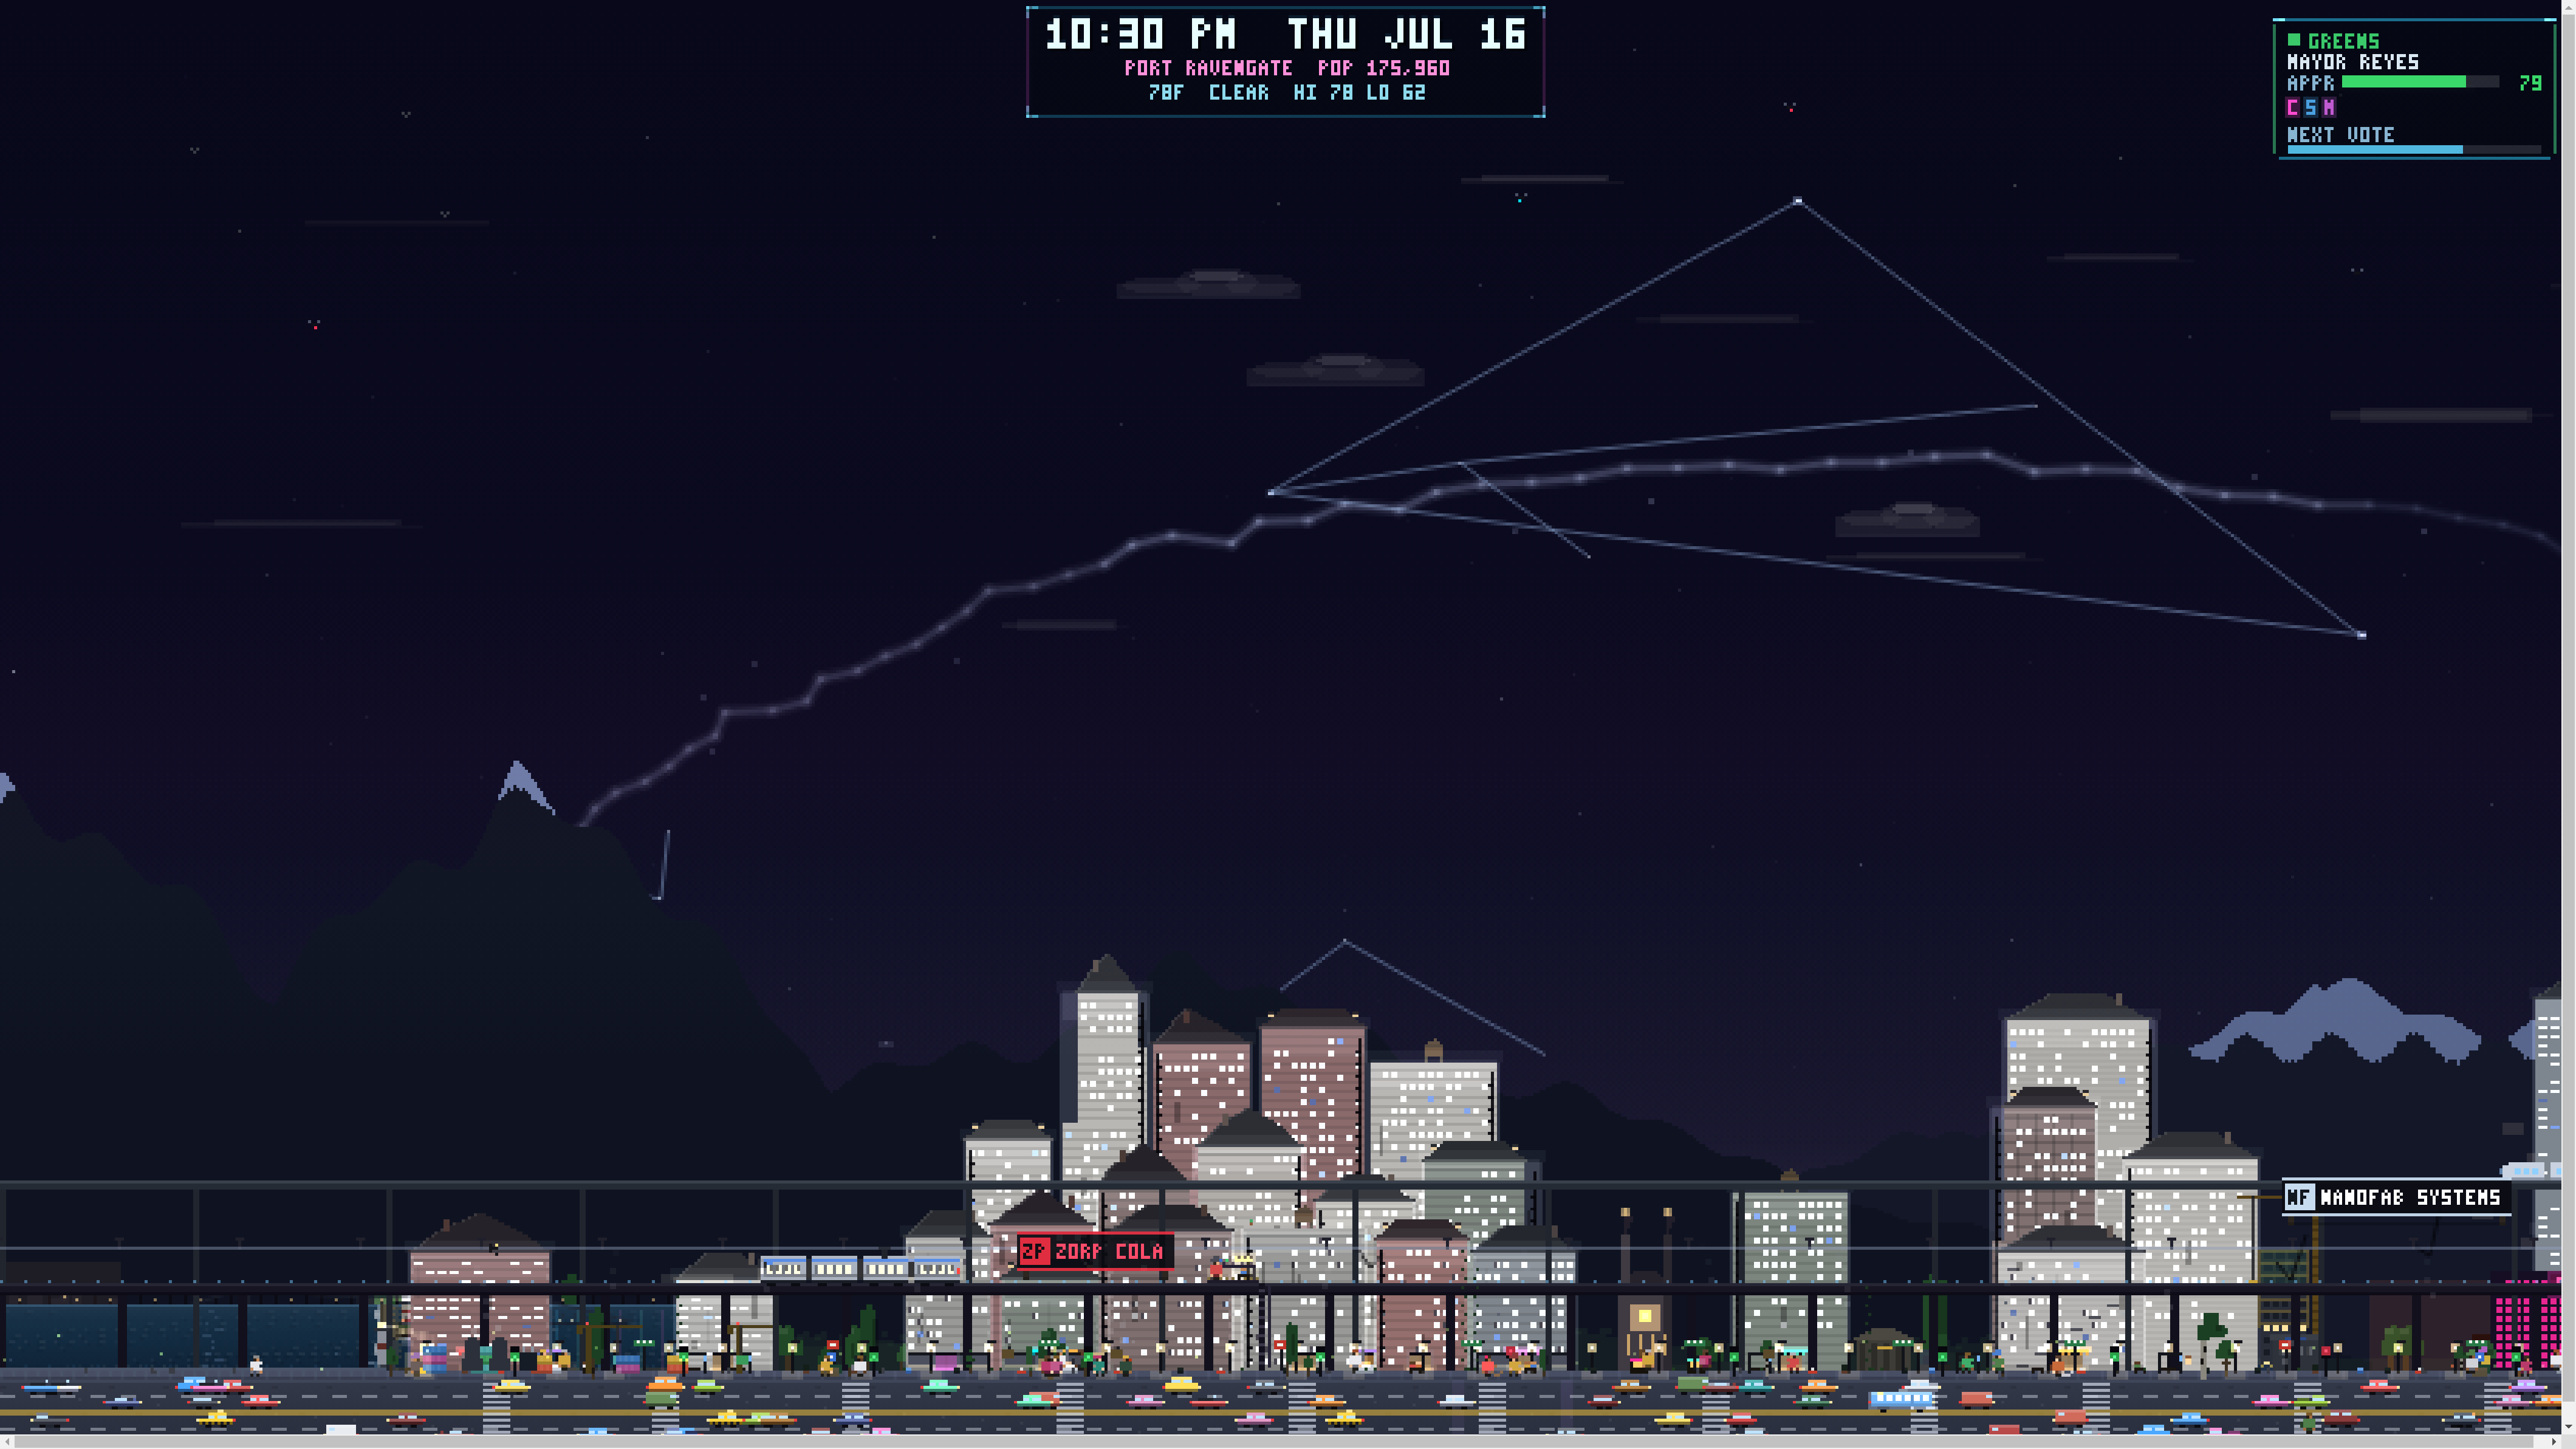
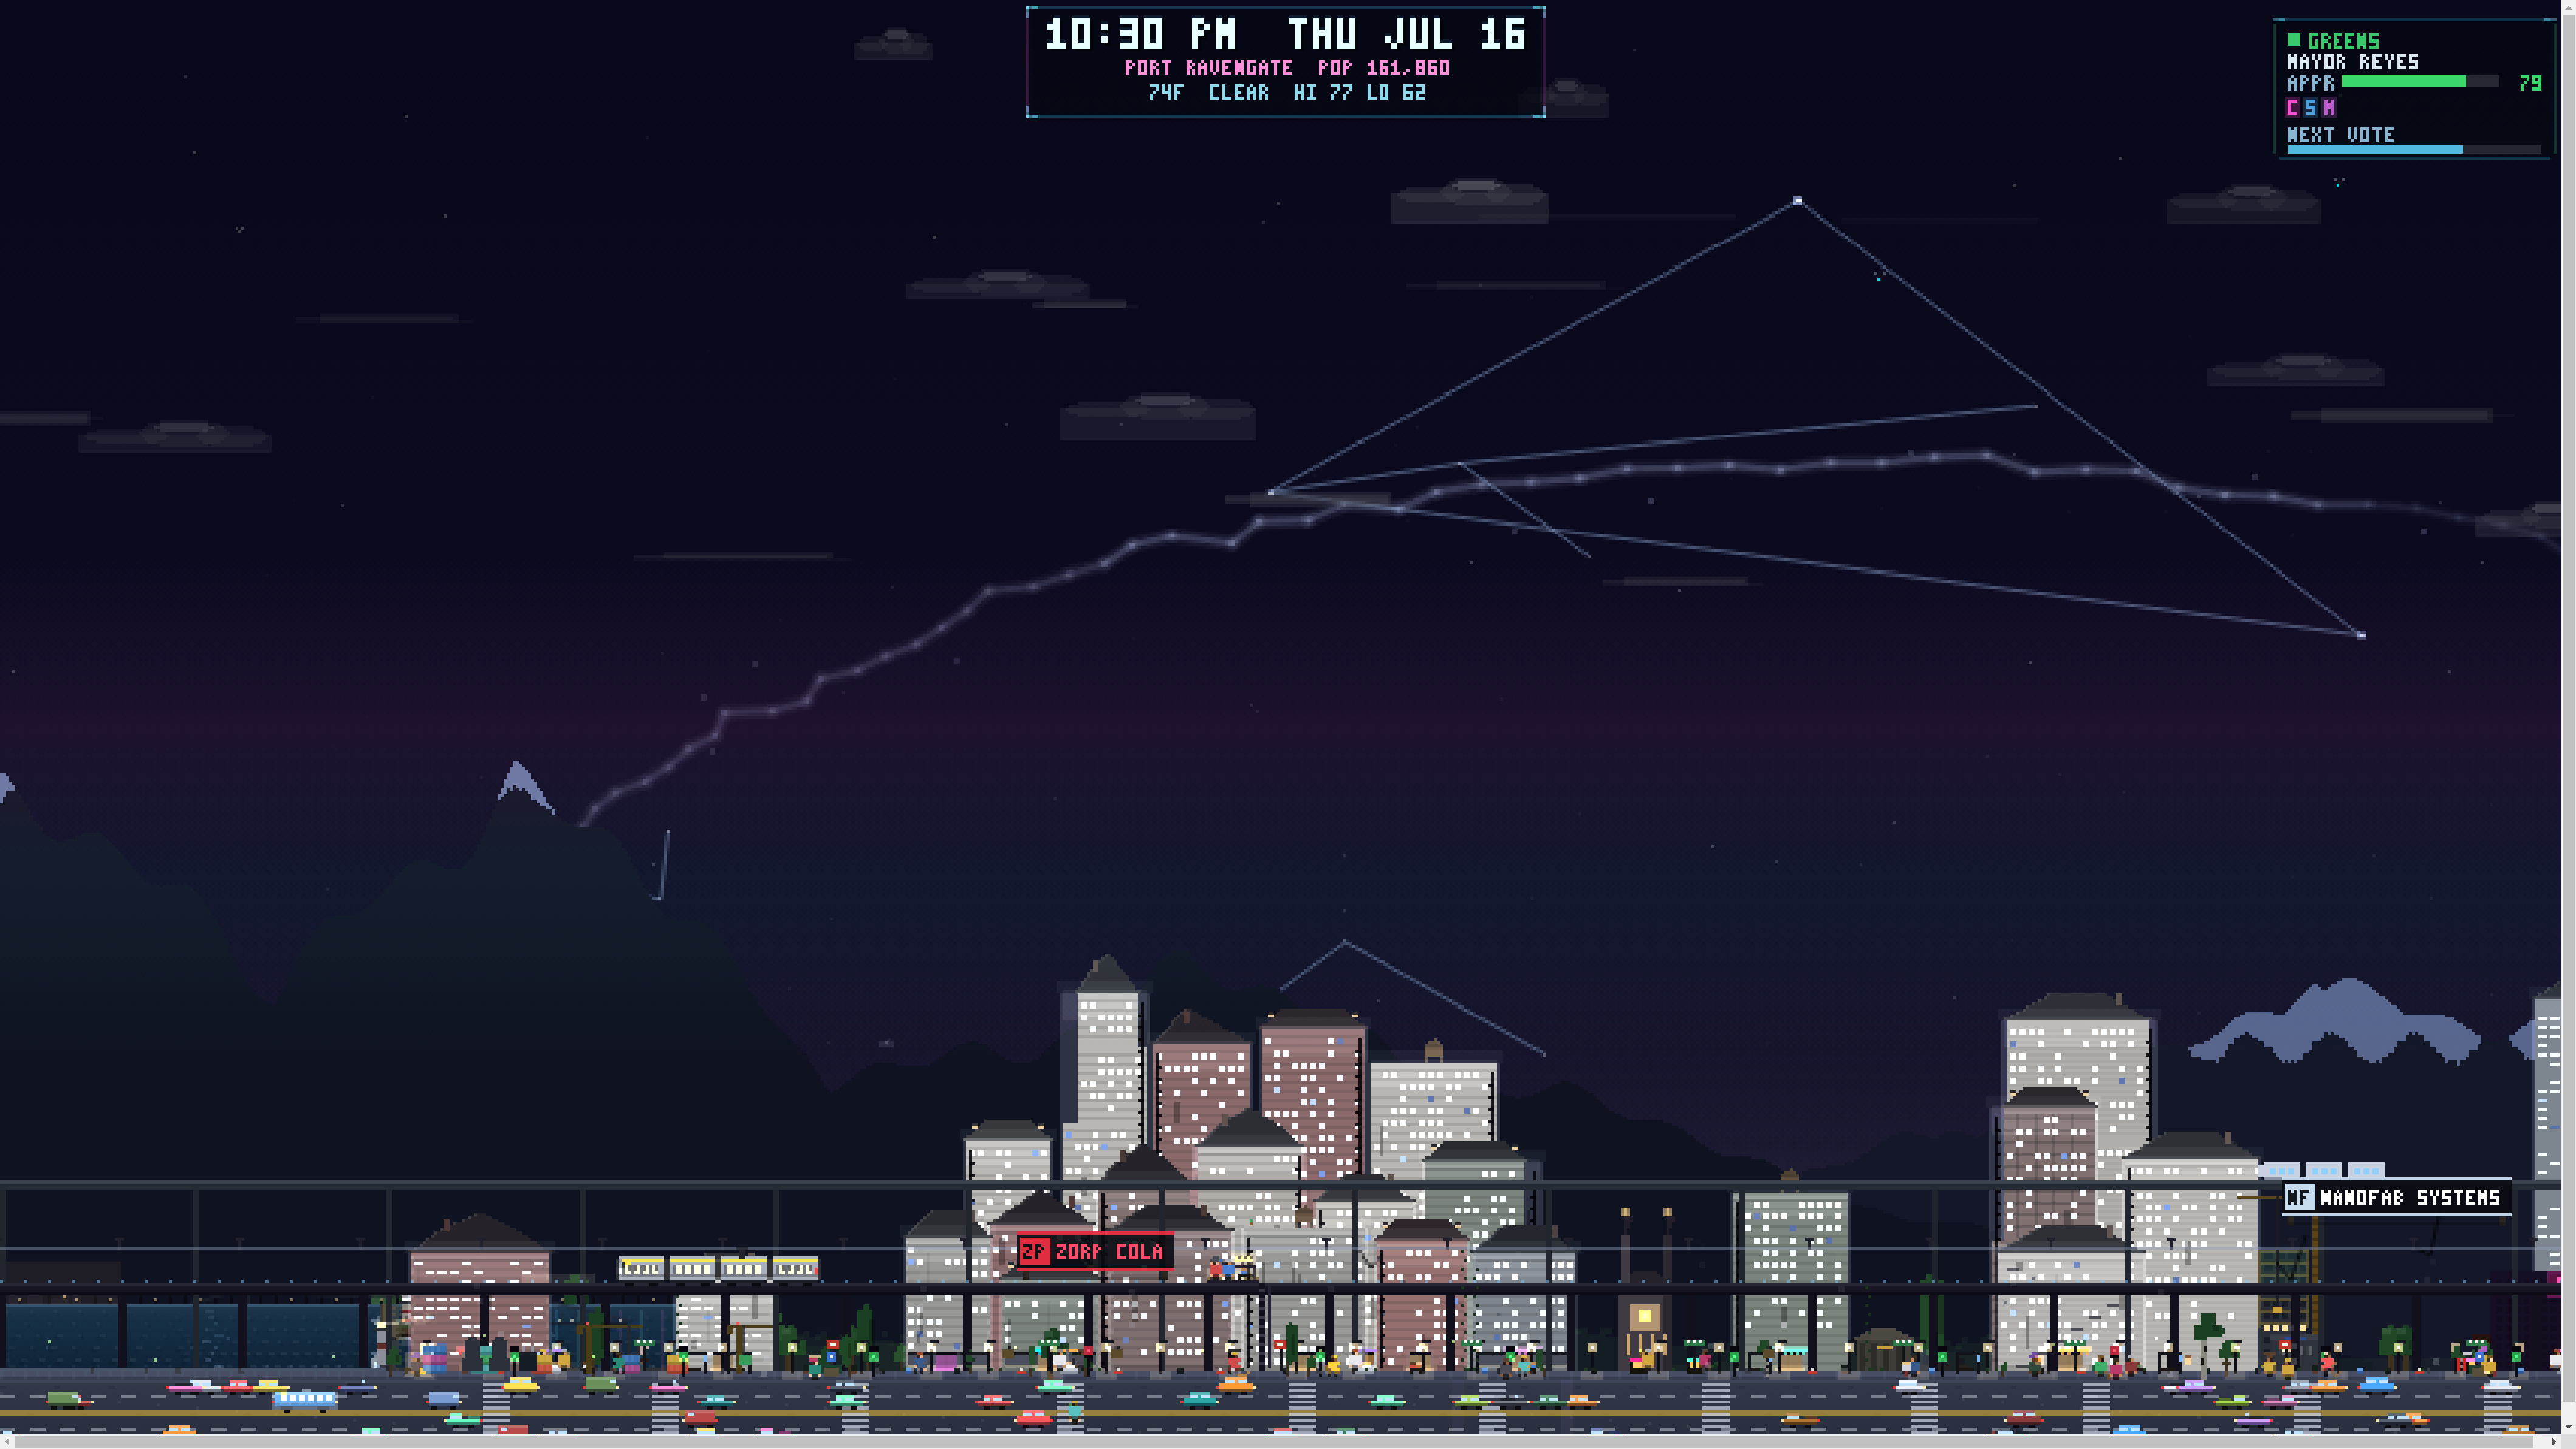
Buildings B3: functional building types with pixel-scale cues
Every building now has a b.use (useFor: district+height+bseed hash, no r(), layout
byte-stable). Most stay generic office/apartment; a deterministic minority render a
recognizable colour/light cue via drawUse — placed MID-FACADE or as a lit blade so it
survives real pixel scale and the el-rail/crowd occlusion at street level:

- hospital: white panel + red cross (glows at night)  - residential district
- theater: bulb-chase marquee + red corner blade      - entertainment/downtown
- hotel: lit gold vertical blade                       - downtown/entertainment
- bank: pale stone pediment band + gold seal           - downtown/oldtown
- cafe: warm scalloped awning + glow                   - oldtown/residential/neon
- pharmacy: glowing green cross                        - oldtown
- factory/warehouse assigned in industrial (cue-less for now)

Added FORCEUSE hook (?use=) + ?probe=use (near-layer type census). Verified hospital/
theater/cafe/hotel at REAL scale (6x, the wallpaper's actual zoom) day+night at a
location the probe confirmed dense+born. qml sweep (34) SWEEP_OK, perf 8.7ms. Synced x4.

Claude-Session: https://claude.ai/code/session_01Fcpq7p4KAqg44eJBRLN5J2

diff --git a/desktop/renderer/city.js b/desktop/renderer/city.js
@@ -151,6 +151,7 @@ var CLOCK = null;   // test-harness override: ms timestamp for time-of-day (null
 var NOWOVR = null;  // test-harness override: ms value returned as Date.now() inside draw() (null = real)
 var FORCELAYOUT = null;   // test hook: pin every building's window layout (grid/ribbon/band/punch/corp) — verify per-layout render
 var FORCECROWN = null;    // test hook: pin every building's crown/roof (gable/hip/saltbox/mansard/deco/…) — verify per-roof render
+var FORCEUSE = null;      // test hook: pin every building's functional type (hospital/theater/hotel/bank/cafe/pharmacy) — verify drawUse
 function nowDate(){ return CLOCK ? new Date(CLOCK) : new Date(); }
 
 function rng(seed){ var a=seed>>>0; return function(){ a|=0; a=a+0x6D2B79F5|0; var t=Math.imul(a^a>>>15,1|a); t=t+Math.imul(t^t>>>7,61|t)^t; return ((t^t>>>14)>>>0)/4294967296; }; }
@@ -236,6 +237,20 @@ function dayMatFor(dname,seed){ var t=DAYMAT[dname]; if(!t) return null; return 
 var ROOFMAT = [ [46,50,60],[58,64,76],[150,72,56],[168,92,64],[92,122,104],[74,104,90],
                 [98,76,56],[120,90,64],[34,36,44],[120,124,132],[74,60,68],[52,58,66] ];
 function roofMatFor(seed){ return ROOFMAT[(seed>>>9)%ROOFMAT.length]; }
+
+// FUNCTIONAL BUILDING TYPE — most buildings are generic office/apartment; a MINORITY are recognizable civic/
+// commercial types rendered with a colour/light cue that survives pixel scale (a mid-facade emblem or a lit
+// blade sign, NOT fine ground-floor linework the rail/crowds occlude). Derived from district+height+a bseed
+// hash — no r(), so the skyline layout is byte-stable. See drawUse().
+function useFor(dname,bh,bseed){
+  var hh=(bseed>>>17)&255;
+  if(dname==="industrial") return hh<140?"factory":"warehouse";
+  if(dname==="downtown")   return hh<11?"hotel":(hh<19?"bank":(hh<26&&bh>=54*KSP?"theater":"office"));
+  if(dname==="neon")       return hh<40?"theater":(hh<64?"hotel":(hh<96?"cafe":"office"));   // entertainment strip
+  if(dname==="residential")return hh<9?"hospital":(hh<20?"cafe":"apartment");
+  if(dname==="oldtown")    return hh<11?"bank":(hh<26?"cafe":(hh<40?"pharmacy":"apartment"));
+  return "office";
+}
 
 var SKY = { night:[[8,8,26],[16,14,40]], dawn:[[70,40,90],[255,140,90]],
             day:[[92,160,235],[170,215,250]], dusk:[[40,30,80],[255,110,70]] };
@@ -2091,6 +2106,7 @@ function makeLayer(seed,y0,baseHMin,baseHMax,layerK){
             glass:((winLayout==="corp"||winLayout==="ribbon")&&!(d.brick||neClap||nePitch)),   // reflective glass tower
             hero:hero,   // signature landmark tower (ornate crown + premium beacon/trim)
             roofMat:roofMatFor(bseed),   // this building's roof colour (slate/copper/red/cedar/tin…) — no two the same
+            use:(typeof FORCEUSE!=='undefined'&&FORCEUSE)?FORCEUSE:useFor(d.name,bh,bseed),   // functional type (hospital/theater/hotel/bank/cafe/…) → drawUse cue
             dayMat:(neColonial?null:dayMatFor(d.name,bseed)),   // DAYTIME material colour (colonial town keeps NE_WALLS; modern core gets it)
             nePitch:nePitch, clap:neClap,
             win:[], st:[], gl:[], roof:[],
@@ -2955,6 +2971,42 @@ function drawBanner(g,msg,now,night,pink){
   }
 }
 
+// FUNCTIONAL-TYPE CUE — a colour/light mark that reads at real pixel scale, placed MID-FACADE (the ground
+// floor is occluded by the el-rail + crowds). Hospital = lit cross; theater = bulb marquee band + red blade;
+// hotel = lit vertical blade; bank = pale pediment band + gold seal; cafe = warm double-awning; pharmacy =
+// green cross. Night versions glow; day versions are painted colour. ~4-8 fillRects each, near layer only.
+function drawUse(g,b,bx,top,L,now,night){
+  var u=b.use; if(!u||u==="office"||u==="apartment"||u==="warehouse"||u==="factory") return;
+  var w=b.w, mid=bx+(w>>1), fy=top+Math.min(9,Math.max(5,b.h>>2));      // upper-facade anchor (above the rail line)
+  if(u==="hospital"){                                                    // white/red cross on its own pale panel
+    g.fillStyle=L>0.5?"#e8ecf0":"#b8c0c8"; g.fillRect(mid-2,fy-2,5,5);
+    g.fillStyle=L>0.5?"#c03038":"#ff5a60"; g.fillRect(mid-1,fy,3,1); g.fillRect(mid,fy-1,1,3);
+    if(L<0.55){ g.globalCompositeOperation="lighter"; g.fillStyle="rgba(255,90,96,0.5)"; g.fillRect(mid-2,fy-2,5,5); g.globalCompositeOperation="source-over"; }
+  } else if(u==="theater"){                                              // bulb-chase marquee band + red blade sign
+    var my=HORIZON-8, mw=Math.min(w-2,14), mX=bx+((w-mw)>>1);
+    g.fillStyle=L>0.5?"#3a3240":"#181020"; g.fillRect(mX,my,mw,2);                       // marquee box
+    for(var bl2=0;bl2<mw;bl2+=2){ var on2=((Math.floor(now/240))+bl2)%4!==0;             // chasing bulbs
+      g.fillStyle=on2?(L<0.6?"#ffe08a":"#c8a850"):"#6a5a30"; g.fillRect(mX+bl2,my,1,1); }
+    g.fillStyle=L<0.6?"#ff4048":"#a03038"; g.fillRect(bx+w-3,top+4,2,Math.min(10,b.h>>2));   // vertical blade
+    if(L<0.55){ g.globalCompositeOperation="lighter"; g.fillStyle="rgba(255,80,90,0.35)"; g.fillRect(bx+w-4,top+3,4,Math.min(12,(b.h>>2)+2)); g.globalCompositeOperation="source-over"; }
+  } else if(u==="hotel"){                                                // lit vertical HOTEL blade on the corner
+    var hbh=Math.min(12,Math.max(6,b.h>>2));
+    g.fillStyle=L<0.6?"#ffd27a":"#8a7440"; g.fillRect(bx+1,top+4,2,hbh);
+    if(L<0.55){ g.globalCompositeOperation="lighter"; g.fillStyle="rgba(255,210,122,0.35)"; g.fillRect(bx,top+3,4,hbh+2); g.globalCompositeOperation="source-over"; }
+  } else if(u==="bank"){                                                 // pale stone pediment band + gold seal
+    g.fillStyle=L>0.5?"#ded8c8":"#5a564a"; g.fillRect(bx+1,fy-1,w-2,2);
+    g.fillStyle=L>0.5?"#c8a850":"#8a7440"; g.fillRect(mid,fy-2,1,1);
+  } else if(u==="cafe"){                                                 // warm scalloped double-awning + glow
+    var aw2=Math.min(w-2,10), aX2=bx+((w-aw2)>>1), ay=HORIZON-7;
+    g.fillStyle=L>0.5?"#c05a3a":"#7a3828"; g.fillRect(aX2,ay,aw2,1);
+    for(var av2=0;av2<aw2;av2+=2) g.fillRect(aX2+av2,ay+1,1,1);                          // scallops
+    if(L<0.55){ g.globalCompositeOperation="lighter"; g.fillStyle="rgba(255,190,120,0.30)"; g.fillRect(aX2-1,ay,aw2+2,4); g.globalCompositeOperation="source-over"; }
+  } else if(u==="pharmacy"){                                             // green cross (universal)
+    g.fillStyle=L<0.6?"#3ae06a":"#2a8848"; g.fillRect(mid-1,fy,3,1); g.fillRect(mid,fy-1,1,3);
+    if(L<0.55){ g.globalCompositeOperation="lighter"; g.fillStyle="rgba(60,224,110,0.4)"; g.fillRect(mid-2,fy-2,5,5); g.globalCompositeOperation="source-over"; }
+  }
+}
+
 // ---- building crowns (a distinct top for every building) ----
 // bx = top-segment screen x, top = its roof y, bw = top-segment width.
 function drawCrown(g,crown,bx,top,bw,col,accent,L,now,night,roofMat){
@@ -3691,6 +3743,7 @@ function drawLayer(g,layer,L,now,fx,hol,haze){
       // a holiday prop hung over the doorway (the building "celebrates" the day)
       if(doProps && (((b.x|0)%3)===0)) drawProp(g,hol.decor.prop, eX+(edw>>1), HORIZON, L, now, night);
     }
+    if(layer===near && b.type!=="park" && b.w>=8) drawUse(g,b,bx,top,L,now,night);   // functional-type cue (hospital cross / theater marquee / hotel blade / …)
     // holiday garland lights strung along the top-segment roofline (every holiday)
     if(decor){ var gc=hol.decor.garland;
       for(var i2=1;i2<tW-1;i2+=2){ var cc=gc[(((i2/2)|0)+bi)%gc.length];

diff --git a/org.citylive.wallpaper/contents/js/city.js b/org.citylive.wallpaper/contents/js/city.js
@@ -151,6 +151,7 @@ var CLOCK = null;   // test-harness override: ms timestamp for time-of-day (null
 var NOWOVR = null;  // test-harness override: ms value returned as Date.now() inside draw() (null = real)
 var FORCELAYOUT = null;   // test hook: pin every building's window layout (grid/ribbon/band/punch/corp) — verify per-layout render
 var FORCECROWN = null;    // test hook: pin every building's crown/roof (gable/hip/saltbox/mansard/deco/…) — verify per-roof render
+var FORCEUSE = null;      // test hook: pin every building's functional type (hospital/theater/hotel/bank/cafe/pharmacy) — verify drawUse
 function nowDate(){ return CLOCK ? new Date(CLOCK) : new Date(); }
 
 function rng(seed){ var a=seed>>>0; return function(){ a|=0; a=a+0x6D2B79F5|0; var t=Math.imul(a^a>>>15,1|a); t=t+Math.imul(t^t>>>7,61|t)^t; return ((t^t>>>14)>>>0)/4294967296; }; }
@@ -236,6 +237,20 @@ function dayMatFor(dname,seed){ var t=DAYMAT[dname]; if(!t) return null; return 
 var ROOFMAT = [ [46,50,60],[58,64,76],[150,72,56],[168,92,64],[92,122,104],[74,104,90],
                 [98,76,56],[120,90,64],[34,36,44],[120,124,132],[74,60,68],[52,58,66] ];
 function roofMatFor(seed){ return ROOFMAT[(seed>>>9)%ROOFMAT.length]; }
+
+// FUNCTIONAL BUILDING TYPE — most buildings are generic office/apartment; a MINORITY are recognizable civic/
+// commercial types rendered with a colour/light cue that survives pixel scale (a mid-facade emblem or a lit
+// blade sign, NOT fine ground-floor linework the rail/crowds occlude). Derived from district+height+a bseed
+// hash — no r(), so the skyline layout is byte-stable. See drawUse().
+function useFor(dname,bh,bseed){
+  var hh=(bseed>>>17)&255;
+  if(dname==="industrial") return hh<140?"factory":"warehouse";
+  if(dname==="downtown")   return hh<11?"hotel":(hh<19?"bank":(hh<26&&bh>=54*KSP?"theater":"office"));
+  if(dname==="neon")       return hh<40?"theater":(hh<64?"hotel":(hh<96?"cafe":"office"));   // entertainment strip
+  if(dname==="residential")return hh<9?"hospital":(hh<20?"cafe":"apartment");
+  if(dname==="oldtown")    return hh<11?"bank":(hh<26?"cafe":(hh<40?"pharmacy":"apartment"));
+  return "office";
+}
 
 var SKY = { night:[[8,8,26],[16,14,40]], dawn:[[70,40,90],[255,140,90]],
             day:[[92,160,235],[170,215,250]], dusk:[[40,30,80],[255,110,70]] };
@@ -2091,6 +2106,7 @@ function makeLayer(seed,y0,baseHMin,baseHMax,layerK){
             glass:((winLayout==="corp"||winLayout==="ribbon")&&!(d.brick||neClap||nePitch)),   // reflective glass tower
             hero:hero,   // signature landmark tower (ornate crown + premium beacon/trim)
             roofMat:roofMatFor(bseed),   // this building's roof colour (slate/copper/red/cedar/tin…) — no two the same
+            use:(typeof FORCEUSE!=='undefined'&&FORCEUSE)?FORCEUSE:useFor(d.name,bh,bseed),   // functional type (hospital/theater/hotel/bank/cafe/…) → drawUse cue
             dayMat:(neColonial?null:dayMatFor(d.name,bseed)),   // DAYTIME material colour (colonial town keeps NE_WALLS; modern core gets it)
             nePitch:nePitch, clap:neClap,
             win:[], st:[], gl:[], roof:[],
@@ -2955,6 +2971,42 @@ function drawBanner(g,msg,now,night,pink){
   }
 }
 
+// FUNCTIONAL-TYPE CUE — a colour/light mark that reads at real pixel scale, placed MID-FACADE (the ground
+// floor is occluded by the el-rail + crowds). Hospital = lit cross; theater = bulb marquee band + red blade;
+// hotel = lit vertical blade; bank = pale pediment band + gold seal; cafe = warm double-awning; pharmacy =
+// green cross. Night versions glow; day versions are painted colour. ~4-8 fillRects each, near layer only.
+function drawUse(g,b,bx,top,L,now,night){
+  var u=b.use; if(!u||u==="office"||u==="apartment"||u==="warehouse"||u==="factory") return;
+  var w=b.w, mid=bx+(w>>1), fy=top+Math.min(9,Math.max(5,b.h>>2));      // upper-facade anchor (above the rail line)
+  if(u==="hospital"){                                                    // white/red cross on its own pale panel
+    g.fillStyle=L>0.5?"#e8ecf0":"#b8c0c8"; g.fillRect(mid-2,fy-2,5,5);
+    g.fillStyle=L>0.5?"#c03038":"#ff5a60"; g.fillRect(mid-1,fy,3,1); g.fillRect(mid,fy-1,1,3);
+    if(L<0.55){ g.globalCompositeOperation="lighter"; g.fillStyle="rgba(255,90,96,0.5)"; g.fillRect(mid-2,fy-2,5,5); g.globalCompositeOperation="source-over"; }
+  } else if(u==="theater"){                                              // bulb-chase marquee band + red blade sign
+    var my=HORIZON-8, mw=Math.min(w-2,14), mX=bx+((w-mw)>>1);
+    g.fillStyle=L>0.5?"#3a3240":"#181020"; g.fillRect(mX,my,mw,2);                       // marquee box
+    for(var bl2=0;bl2<mw;bl2+=2){ var on2=((Math.floor(now/240))+bl2)%4!==0;             // chasing bulbs
+      g.fillStyle=on2?(L<0.6?"#ffe08a":"#c8a850"):"#6a5a30"; g.fillRect(mX+bl2,my,1,1); }
+    g.fillStyle=L<0.6?"#ff4048":"#a03038"; g.fillRect(bx+w-3,top+4,2,Math.min(10,b.h>>2));   // vertical blade
+    if(L<0.55){ g.globalCompositeOperation="lighter"; g.fillStyle="rgba(255,80,90,0.35)"; g.fillRect(bx+w-4,top+3,4,Math.min(12,(b.h>>2)+2)); g.globalCompositeOperation="source-over"; }
+  } else if(u==="hotel"){                                                // lit vertical HOTEL blade on the corner
+    var hbh=Math.min(12,Math.max(6,b.h>>2));
+    g.fillStyle=L<0.6?"#ffd27a":"#8a7440"; g.fillRect(bx+1,top+4,2,hbh);
+    if(L<0.55){ g.globalCompositeOperation="lighter"; g.fillStyle="rgba(255,210,122,0.35)"; g.fillRect(bx,top+3,4,hbh+2); g.globalCompositeOperation="source-over"; }
+  } else if(u==="bank"){                                                 // pale stone pediment band + gold seal
+    g.fillStyle=L>0.5?"#ded8c8":"#5a564a"; g.fillRect(bx+1,fy-1,w-2,2);
+    g.fillStyle=L>0.5?"#c8a850":"#8a7440"; g.fillRect(mid,fy-2,1,1);
+  } else if(u==="cafe"){                                                 // warm scalloped double-awning + glow
+    var aw2=Math.min(w-2,10), aX2=bx+((w-aw2)>>1), ay=HORIZON-7;
+    g.fillStyle=L>0.5?"#c05a3a":"#7a3828"; g.fillRect(aX2,ay,aw2,1);
+    for(var av2=0;av2<aw2;av2+=2) g.fillRect(aX2+av2,ay+1,1,1);                          // scallops
+    if(L<0.55){ g.globalCompositeOperation="lighter"; g.fillStyle="rgba(255,190,120,0.30)"; g.fillRect(aX2-1,ay,aw2+2,4); g.globalCompositeOperation="source-over"; }
+  } else if(u==="pharmacy"){                                             // green cross (universal)
+    g.fillStyle=L<0.6?"#3ae06a":"#2a8848"; g.fillRect(mid-1,fy,3,1); g.fillRect(mid,fy-1,1,3);
+    if(L<0.55){ g.globalCompositeOperation="lighter"; g.fillStyle="rgba(60,224,110,0.4)"; g.fillRect(mid-2,fy-2,5,5); g.globalCompositeOperation="source-over"; }
+  }
+}
+
 // ---- building crowns (a distinct top for every building) ----
 // bx = top-segment screen x, top = its roof y, bw = top-segment width.
 function drawCrown(g,crown,bx,top,bw,col,accent,L,now,night,roofMat){
@@ -3691,6 +3743,7 @@ function drawLayer(g,layer,L,now,fx,hol,haze){
       // a holiday prop hung over the doorway (the building "celebrates" the day)
       if(doProps && (((b.x|0)%3)===0)) drawProp(g,hol.decor.prop, eX+(edw>>1), HORIZON, L, now, night);
     }
+    if(layer===near && b.type!=="park" && b.w>=8) drawUse(g,b,bx,top,L,now,night);   // functional-type cue (hospital cross / theater marquee / hotel blade / …)
     // holiday garland lights strung along the top-segment roofline (every holiday)
     if(decor){ var gc=hol.decor.garland;
       for(var i2=1;i2<tW-1;i2+=2){ var cc=gc[(((i2/2)|0)+bi)%gc.length];

diff --git a/phone/city.js b/phone/city.js
@@ -151,6 +151,7 @@ var CLOCK = null;   // test-harness override: ms timestamp for time-of-day (null
 var NOWOVR = null;  // test-harness override: ms value returned as Date.now() inside draw() (null = real)
 var FORCELAYOUT = null;   // test hook: pin every building's window layout (grid/ribbon/band/punch/corp) — verify per-layout render
 var FORCECROWN = null;    // test hook: pin every building's crown/roof (gable/hip/saltbox/mansard/deco/…) — verify per-roof render
+var FORCEUSE = null;      // test hook: pin every building's functional type (hospital/theater/hotel/bank/cafe/pharmacy) — verify drawUse
 function nowDate(){ return CLOCK ? new Date(CLOCK) : new Date(); }
 
 function rng(seed){ var a=seed>>>0; return function(){ a|=0; a=a+0x6D2B79F5|0; var t=Math.imul(a^a>>>15,1|a); t=t+Math.imul(t^t>>>7,61|t)^t; return ((t^t>>>14)>>>0)/4294967296; }; }
@@ -236,6 +237,20 @@ function dayMatFor(dname,seed){ var t=DAYMAT[dname]; if(!t) return null; return 
 var ROOFMAT = [ [46,50,60],[58,64,76],[150,72,56],[168,92,64],[92,122,104],[74,104,90],
                 [98,76,56],[120,90,64],[34,36,44],[120,124,132],[74,60,68],[52,58,66] ];
 function roofMatFor(seed){ return ROOFMAT[(seed>>>9)%ROOFMAT.length]; }
+
+// FUNCTIONAL BUILDING TYPE — most buildings are generic office/apartment; a MINORITY are recognizable civic/
+// commercial types rendered with a colour/light cue that survives pixel scale (a mid-facade emblem or a lit
+// blade sign, NOT fine ground-floor linework the rail/crowds occlude). Derived from district+height+a bseed
+// hash — no r(), so the skyline layout is byte-stable. See drawUse().
+function useFor(dname,bh,bseed){
+  var hh=(bseed>>>17)&255;
+  if(dname==="industrial") return hh<140?"factory":"warehouse";
+  if(dname==="downtown")   return hh<11?"hotel":(hh<19?"bank":(hh<26&&bh>=54*KSP?"theater":"office"));
+  if(dname==="neon")       return hh<40?"theater":(hh<64?"hotel":(hh<96?"cafe":"office"));   // entertainment strip
+  if(dname==="residential")return hh<9?"hospital":(hh<20?"cafe":"apartment");
+  if(dname==="oldtown")    return hh<11?"bank":(hh<26?"cafe":(hh<40?"pharmacy":"apartment"));
+  return "office";
+}
 
 var SKY = { night:[[8,8,26],[16,14,40]], dawn:[[70,40,90],[255,140,90]],
             day:[[92,160,235],[170,215,250]], dusk:[[40,30,80],[255,110,70]] };
@@ -2091,6 +2106,7 @@ function makeLayer(seed,y0,baseHMin,baseHMax,layerK){
             glass:((winLayout==="corp"||winLayout==="ribbon")&&!(d.brick||neClap||nePitch)),   // reflective glass tower
             hero:hero,   // signature landmark tower (ornate crown + premium beacon/trim)
             roofMat:roofMatFor(bseed),   // this building's roof colour (slate/copper/red/cedar/tin…) — no two the same
+            use:(typeof FORCEUSE!=='undefined'&&FORCEUSE)?FORCEUSE:useFor(d.name,bh,bseed),   // functional type (hospital/theater/hotel/bank/cafe/…) → drawUse cue
             dayMat:(neColonial?null:dayMatFor(d.name,bseed)),   // DAYTIME material colour (colonial town keeps NE_WALLS; modern core gets it)
             nePitch:nePitch, clap:neClap,
             win:[], st:[], gl:[], roof:[],
@@ -2955,6 +2971,42 @@ function drawBanner(g,msg,now,night,pink){
   }
 }
 
+// FUNCTIONAL-TYPE CUE — a colour/light mark that reads at real pixel scale, placed MID-FACADE (the ground
+// floor is occluded by the el-rail + crowds). Hospital = lit cross; theater = bulb marquee band + red blade;
+// hotel = lit vertical blade; bank = pale pediment band + gold seal; cafe = warm double-awning; pharmacy =
+// green cross. Night versions glow; day versions are painted colour. ~4-8 fillRects each, near layer only.
+function drawUse(g,b,bx,top,L,now,night){
+  var u=b.use; if(!u||u==="office"||u==="apartment"||u==="warehouse"||u==="factory") return;
+  var w=b.w, mid=bx+(w>>1), fy=top+Math.min(9,Math.max(5,b.h>>2));      // upper-facade anchor (above the rail line)
+  if(u==="hospital"){                                                    // white/red cross on its own pale panel
+    g.fillStyle=L>0.5?"#e8ecf0":"#b8c0c8"; g.fillRect(mid-2,fy-2,5,5);
+    g.fillStyle=L>0.5?"#c03038":"#ff5a60"; g.fillRect(mid-1,fy,3,1); g.fillRect(mid,fy-1,1,3);
+    if(L<0.55){ g.globalCompositeOperation="lighter"; g.fillStyle="rgba(255,90,96,0.5)"; g.fillRect(mid-2,fy-2,5,5); g.globalCompositeOperation="source-over"; }
+  } else if(u==="theater"){                                              // bulb-chase marquee band + red blade sign
+    var my=HORIZON-8, mw=Math.min(w-2,14), mX=bx+((w-mw)>>1);
+    g.fillStyle=L>0.5?"#3a3240":"#181020"; g.fillRect(mX,my,mw,2);                       // marquee box
+    for(var bl2=0;bl2<mw;bl2+=2){ var on2=((Math.floor(now/240))+bl2)%4!==0;             // chasing bulbs
+      g.fillStyle=on2?(L<0.6?"#ffe08a":"#c8a850"):"#6a5a30"; g.fillRect(mX+bl2,my,1,1); }
+    g.fillStyle=L<0.6?"#ff4048":"#a03038"; g.fillRect(bx+w-3,top+4,2,Math.min(10,b.h>>2));   // vertical blade
+    if(L<0.55){ g.globalCompositeOperation="lighter"; g.fillStyle="rgba(255,80,90,0.35)"; g.fillRect(bx+w-4,top+3,4,Math.min(12,(b.h>>2)+2)); g.globalCompositeOperation="source-over"; }
+  } else if(u==="hotel"){                                                // lit vertical HOTEL blade on the corner
+    var hbh=Math.min(12,Math.max(6,b.h>>2));
+    g.fillStyle=L<0.6?"#ffd27a":"#8a7440"; g.fillRect(bx+1,top+4,2,hbh);
+    if(L<0.55){ g.globalCompositeOperation="lighter"; g.fillStyle="rgba(255,210,122,0.35)"; g.fillRect(bx,top+3,4,hbh+2); g.globalCompositeOperation="source-over"; }
+  } else if(u==="bank"){                                                 // pale stone pediment band + gold seal
+    g.fillStyle=L>0.5?"#ded8c8":"#5a564a"; g.fillRect(bx+1,fy-1,w-2,2);
+    g.fillStyle=L>0.5?"#c8a850":"#8a7440"; g.fillRect(mid,fy-2,1,1);
+  } else if(u==="cafe"){                                                 // warm scalloped double-awning + glow
+    var aw2=Math.min(w-2,10), aX2=bx+((w-aw2)>>1), ay=HORIZON-7;
+    g.fillStyle=L>0.5?"#c05a3a":"#7a3828"; g.fillRect(aX2,ay,aw2,1);
+    for(var av2=0;av2<aw2;av2+=2) g.fillRect(aX2+av2,ay+1,1,1);                          // scallops
+    if(L<0.55){ g.globalCompositeOperation="lighter"; g.fillStyle="rgba(255,190,120,0.30)"; g.fillRect(aX2-1,ay,aw2+2,4); g.globalCompositeOperation="source-over"; }
+  } else if(u==="pharmacy"){                                             // green cross (universal)
+    g.fillStyle=L<0.6?"#3ae06a":"#2a8848"; g.fillRect(mid-1,fy,3,1); g.fillRect(mid,fy-1,1,3);
+    if(L<0.55){ g.globalCompositeOperation="lighter"; g.fillStyle="rgba(60,224,110,0.4)"; g.fillRect(mid-2,fy-2,5,5); g.globalCompositeOperation="source-over"; }
+  }
+}
+
 // ---- building crowns (a distinct top for every building) ----
 // bx = top-segment screen x, top = its roof y, bw = top-segment width.
 function drawCrown(g,crown,bx,top,bw,col,accent,L,now,night,roofMat){
@@ -3691,6 +3743,7 @@ function drawLayer(g,layer,L,now,fx,hol,haze){
       // a holiday prop hung over the doorway (the building "celebrates" the day)
       if(doProps && (((b.x|0)%3)===0)) drawProp(g,hol.decor.prop, eX+(edw>>1), HORIZON, L, now, night);
     }
+    if(layer===near && b.type!=="park" && b.w>=8) drawUse(g,b,bx,top,L,now,night);   // functional-type cue (hospital cross / theater marquee / hotel blade / …)
     // holiday garland lights strung along the top-segment roofline (every holiday)
     if(decor){ var gc=hol.decor.garland;
       for(var i2=1;i2<tW-1;i2+=2){ var cc=gc[(((i2/2)|0)+bi)%gc.length];

diff --git a/web/city.js b/web/city.js
@@ -151,6 +151,7 @@ var CLOCK = null;   // test-harness override: ms timestamp for time-of-day (null
 var NOWOVR = null;  // test-harness override: ms value returned as Date.now() inside draw() (null = real)
 var FORCELAYOUT = null;   // test hook: pin every building's window layout (grid/ribbon/band/punch/corp) — verify per-layout render
 var FORCECROWN = null;    // test hook: pin every building's crown/roof (gable/hip/saltbox/mansard/deco/…) — verify per-roof render
+var FORCEUSE = null;      // test hook: pin every building's functional type (hospital/theater/hotel/bank/cafe/pharmacy) — verify drawUse
 function nowDate(){ return CLOCK ? new Date(CLOCK) : new Date(); }
 
 function rng(seed){ var a=seed>>>0; return function(){ a|=0; a=a+0x6D2B79F5|0; var t=Math.imul(a^a>>>15,1|a); t=t+Math.imul(t^t>>>7,61|t)^t; return ((t^t>>>14)>>>0)/4294967296; }; }
@@ -236,6 +237,20 @@ function dayMatFor(dname,seed){ var t=DAYMAT[dname]; if(!t) return null; return 
 var ROOFMAT = [ [46,50,60],[58,64,76],[150,72,56],[168,92,64],[92,122,104],[74,104,90],
                 [98,76,56],[120,90,64],[34,36,44],[120,124,132],[74,60,68],[52,58,66] ];
 function roofMatFor(seed){ return ROOFMAT[(seed>>>9)%ROOFMAT.length]; }
+
+// FUNCTIONAL BUILDING TYPE — most buildings are generic office/apartment; a MINORITY are recognizable civic/
+// commercial types rendered with a colour/light cue that survives pixel scale (a mid-facade emblem or a lit
+// blade sign, NOT fine ground-floor linework the rail/crowds occlude). Derived from district+height+a bseed
+// hash — no r(), so the skyline layout is byte-stable. See drawUse().
+function useFor(dname,bh,bseed){
+  var hh=(bseed>>>17)&255;
+  if(dname==="industrial") return hh<140?"factory":"warehouse";
+  if(dname==="downtown")   return hh<11?"hotel":(hh<19?"bank":(hh<26&&bh>=54*KSP?"theater":"office"));
+  if(dname==="neon")       return hh<40?"theater":(hh<64?"hotel":(hh<96?"cafe":"office"));   // entertainment strip
+  if(dname==="residential")return hh<9?"hospital":(hh<20?"cafe":"apartment");
+  if(dname==="oldtown")    return hh<11?"bank":(hh<26?"cafe":(hh<40?"pharmacy":"apartment"));
+  return "office";
+}
 
 var SKY = { night:[[8,8,26],[16,14,40]], dawn:[[70,40,90],[255,140,90]],
             day:[[92,160,235],[170,215,250]], dusk:[[40,30,80],[255,110,70]] };
@@ -2091,6 +2106,7 @@ function makeLayer(seed,y0,baseHMin,baseHMax,layerK){
             glass:((winLayout==="corp"||winLayout==="ribbon")&&!(d.brick||neClap||nePitch)),   // reflective glass tower
             hero:hero,   // signature landmark tower (ornate crown + premium beacon/trim)
             roofMat:roofMatFor(bseed),   // this building's roof colour (slate/copper/red/cedar/tin…) — no two the same
+            use:(typeof FORCEUSE!=='undefined'&&FORCEUSE)?FORCEUSE:useFor(d.name,bh,bseed),   // functional type (hospital/theater/hotel/bank/cafe/…) → drawUse cue
             dayMat:(neColonial?null:dayMatFor(d.name,bseed)),   // DAYTIME material colour (colonial town keeps NE_WALLS; modern core gets it)
             nePitch:nePitch, clap:neClap,
             win:[], st:[], gl:[], roof:[],
@@ -2955,6 +2971,42 @@ function drawBanner(g,msg,now,night,pink){
   }
 }
 
+// FUNCTIONAL-TYPE CUE — a colour/light mark that reads at real pixel scale, placed MID-FACADE (the ground
+// floor is occluded by the el-rail + crowds). Hospital = lit cross; theater = bulb marquee band + red blade;
+// hotel = lit vertical blade; bank = pale pediment band + gold seal; cafe = warm double-awning; pharmacy =
+// green cross. Night versions glow; day versions are painted colour. ~4-8 fillRects each, near layer only.
+function drawUse(g,b,bx,top,L,now,night){
+  var u=b.use; if(!u||u==="office"||u==="apartment"||u==="warehouse"||u==="factory") return;
+  var w=b.w, mid=bx+(w>>1), fy=top+Math.min(9,Math.max(5,b.h>>2));      // upper-facade anchor (above the rail line)
+  if(u==="hospital"){                                                    // white/red cross on its own pale panel
+    g.fillStyle=L>0.5?"#e8ecf0":"#b8c0c8"; g.fillRect(mid-2,fy-2,5,5);
+    g.fillStyle=L>0.5?"#c03038":"#ff5a60"; g.fillRect(mid-1,fy,3,1); g.fillRect(mid,fy-1,1,3);
+    if(L<0.55){ g.globalCompositeOperation="lighter"; g.fillStyle="rgba(255,90,96,0.5)"; g.fillRect(mid-2,fy-2,5,5); g.globalCompositeOperation="source-over"; }
+  } else if(u==="theater"){                                              // bulb-chase marquee band + red blade sign
+    var my=HORIZON-8, mw=Math.min(w-2,14), mX=bx+((w-mw)>>1);
+    g.fillStyle=L>0.5?"#3a3240":"#181020"; g.fillRect(mX,my,mw,2);                       // marquee box
+    for(var bl2=0;bl2<mw;bl2+=2){ var on2=((Math.floor(now/240))+bl2)%4!==0;             // chasing bulbs
+      g.fillStyle=on2?(L<0.6?"#ffe08a":"#c8a850"):"#6a5a30"; g.fillRect(mX+bl2,my,1,1); }
+    g.fillStyle=L<0.6?"#ff4048":"#a03038"; g.fillRect(bx+w-3,top+4,2,Math.min(10,b.h>>2));   // vertical blade
+    if(L<0.55){ g.globalCompositeOperation="lighter"; g.fillStyle="rgba(255,80,90,0.35)"; g.fillRect(bx+w-4,top+3,4,Math.min(12,(b.h>>2)+2)); g.globalCompositeOperation="source-over"; }
+  } else if(u==="hotel"){                                                // lit vertical HOTEL blade on the corner
+    var hbh=Math.min(12,Math.max(6,b.h>>2));
+    g.fillStyle=L<0.6?"#ffd27a":"#8a7440"; g.fillRect(bx+1,top+4,2,hbh);
+    if(L<0.55){ g.globalCompositeOperation="lighter"; g.fillStyle="rgba(255,210,122,0.35)"; g.fillRect(bx,top+3,4,hbh+2); g.globalCompositeOperation="source-over"; }
+  } else if(u==="bank"){                                                 // pale stone pediment band + gold seal
+    g.fillStyle=L>0.5?"#ded8c8":"#5a564a"; g.fillRect(bx+1,fy-1,w-2,2);
+    g.fillStyle=L>0.5?"#c8a850":"#8a7440"; g.fillRect(mid,fy-2,1,1);
+  } else if(u==="cafe"){                                                 // warm scalloped double-awning + glow
+    var aw2=Math.min(w-2,10), aX2=bx+((w-aw2)>>1), ay=HORIZON-7;
+    g.fillStyle=L>0.5?"#c05a3a":"#7a3828"; g.fillRect(aX2,ay,aw2,1);
+    for(var av2=0;av2<aw2;av2+=2) g.fillRect(aX2+av2,ay+1,1,1);                          // scallops
+    if(L<0.55){ g.globalCompositeOperation="lighter"; g.fillStyle="rgba(255,190,120,0.30)"; g.fillRect(aX2-1,ay,aw2+2,4); g.globalCompositeOperation="source-over"; }
+  } else if(u==="pharmacy"){                                             // green cross (universal)
+    g.fillStyle=L<0.6?"#3ae06a":"#2a8848"; g.fillRect(mid-1,fy,3,1); g.fillRect(mid,fy-1,1,3);
+    if(L<0.55){ g.globalCompositeOperation="lighter"; g.fillStyle="rgba(60,224,110,0.4)"; g.fillRect(mid-2,fy-2,5,5); g.globalCompositeOperation="source-over"; }
+  }
+}
+
 // ---- building crowns (a distinct top for every building) ----
 // bx = top-segment screen x, top = its roof y, bw = top-segment width.
 function drawCrown(g,crown,bx,top,bw,col,accent,L,now,night,roofMat){
@@ -3691,6 +3743,7 @@ function drawLayer(g,layer,L,now,fx,hol,haze){
       // a holiday prop hung over the doorway (the building "celebrates" the day)
       if(doProps && (((b.x|0)%3)===0)) drawProp(g,hol.decor.prop, eX+(edw>>1), HORIZON, L, now, night);
     }
+    if(layer===near && b.type!=="park" && b.w>=8) drawUse(g,b,bx,top,L,now,night);   // functional-type cue (hospital cross / theater marquee / hotel blade / …)
     // holiday garland lights strung along the top-segment roofline (every holiday)
     if(decor){ var gc=hol.decor.garland;
       for(var i2=1;i2<tW-1;i2+=2){ var cc=gc[(((i2/2)|0)+bi)%gc.length];

diff --git a/desktop/kde-repro.html b/desktop/kde-repro.html
@@ -22,6 +22,7 @@ if(Q.get('now')){ NOWOVR=+Q.get('now'); }
 if(Q.get('clock')){ CLOCK=+Q.get('clock'); }   // pins the sim's wall-clock (day/night) separately from NOWOVR
 if(Q.get('layout')){ FORCELAYOUT=Q.get('layout'); }   // pins every building's window layout (ribbon/band/grid/punch/corp) to verify per-layout render
 if(Q.get('crown')){ FORCECROWN=Q.get('crown'); }   // pins every building's roof/crown to verify per-roof render
+if(Q.get('use')){ FORCEUSE=Q.get('use'); }   // pins every building's functional type to verify drawUse cues
 if(Q.get('apoc')!=null){ var _ap=+Q.get('apoc'); FORCEAGE={g:1,phase:'apoc',apoc:_ap,cy:0.955+0.045*_ap}; }
 if(Q.get('space')!=null){ var _sp=+Q.get('space'); FORCEAGE={g:1,phase:'peak',apoc:0,cy:0.80+0.13*_sp}; }   // pins the SPACE AGE ramp (curSpace≈_sp, EDUB aside)
 if(Q.get('dis')){ FORCEDIS={type:Q.get('dis'),intensity:4,xf:0.5,w:60,seed:77,f:qn('disf',0.25)}; }
@@ -61,6 +62,10 @@ setTimeout(function(){ try{
       if(cc>=0&&cc<COLS&&rr>=0&&rr<ROWS) grid[rr][cc]++; }
     var art='\n'; for(var gr2=0;gr2<ROWS;gr2++){ var line=''; for(var gc2=0;gc2<COLS;gc2++){ var v=grid[gr2][gc2]; line+= v===0?'.':(v<2?':':(v<4?'o':'#')); } art+=line+'\n'; }
     console.log('MWGRID spine='+MWSPINE.length+' dabs='+MWDABS.length+' vis='+vis+' maxAlpha='+maxa.toFixed(3)+' lpK='+lpK.toFixed(3)+art); }
+  if(Q.get('probe')==='use'){ var uc={}, ux=[];
+    (near.blds||[]).forEach(function(b){ if(b.type==="park") return; uc[b.use]=(uc[b.use]||0)+1;
+      if(b.use&&b.use!=="office"&&b.use!=="apartment"&&b.use!=="factory"&&b.use!=="warehouse"&&ux.length<24) ux.push(b.use+'@'+Math.round(b.x)+' w'+b.w+' born='+(b.bAge<=cityGrowth(rn).g)); });
+    console.log('HEROES USE '+JSON.stringify(uc)+' || '+ux.join(' | ')); }
   if(Q.get('probe')==='hero'){ var hs=[], dts=[];
     [near,mid,far].forEach(function(ly,li){ (ly.blds||[]).forEach(function(b){
       if(b.hero) hs.push((li===0?'N':li===1?'M':'F')+' x'+Math.round(b.x)+' h'+Math.round(b.h)+' '+b.crown+(b.bAge<=cityGrowth(rn).g?'':' UNBORN'));